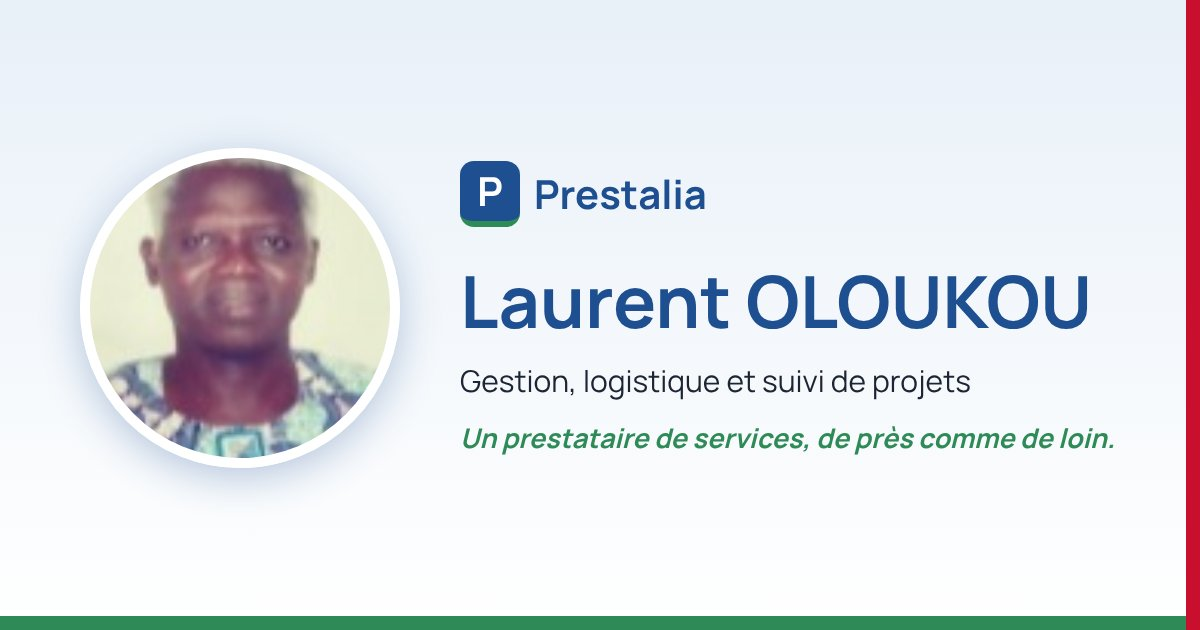
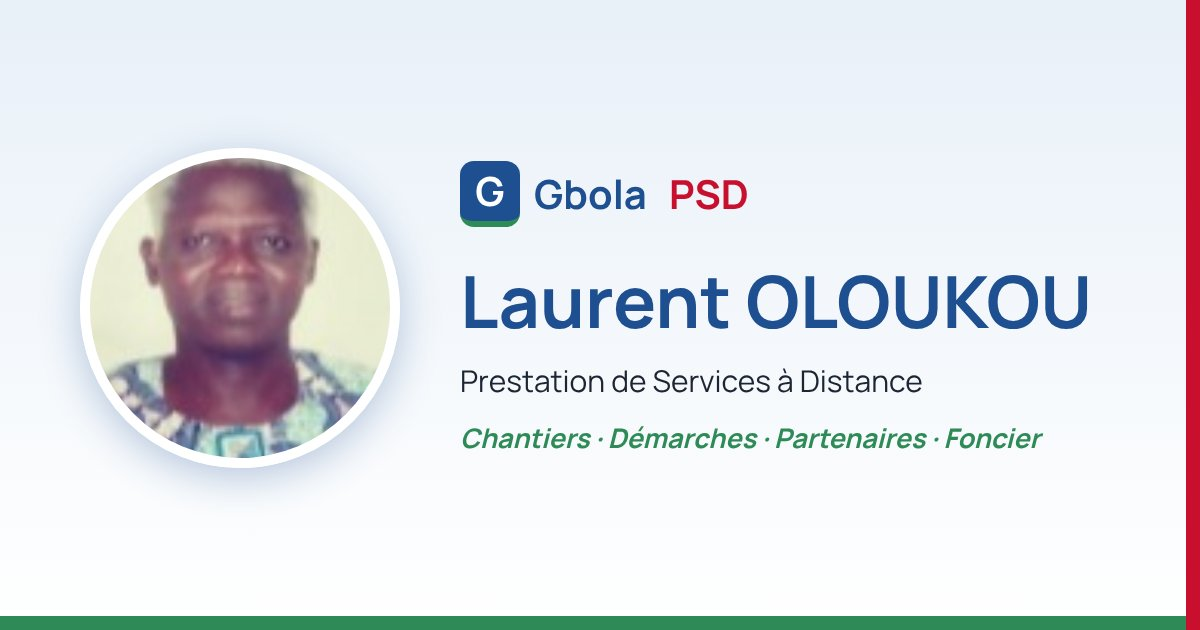
Gbola PSD (Prestation de Services à Distance) : nouvelle offre, services, public visé, étapes, engagements ; admin et CV mis à jour
Claude-Session: https://claude.ai/code/session_01VeEgxMetwQ83aSfKWoi2ZJ

Changed region(s): [[0.37, 0.6635, 0.925, 0.7238], [0.37, 0.573, 0.8017, 0.6333], [0.4008, 0.2714, 0.6475, 0.3317]]

diff --git a/index.html b/index.html
@@ -3,15 +3,15 @@
 <head>
   <meta charset="utf-8">
   <meta name="viewport" content="width=device-width, initial-scale=1">
-  <title>Prestalia — Laurent OLOUKOU, prestations de services</title>
-  <meta name="description" content="Prestalia : gestion de stocks, logistique, gestion administrative, suivi de projets et conseil. Laurent OLOUKOU, Lokossa, Bénin.">
+  <title>Gbola PSD — Prestation de Services à Distance | Laurent OLOUKOU</title>
+  <meta name="description" content="Gbola PSD : suivi de chantier, courses administratives, recherche de partenaires d'affaires et sécurisation foncière au Bénin, pour ceux qui manquent de temps ou vivent à l'extérieur. Laurent OLOUKOU, Lokossa.">
   <link rel="canonical" href="https://oloukou-laurent-prestation.vercel.app/">
   <meta name="theme-color" content="#1d4f91">
   <meta property="og:type" content="website">
   <meta property="og:locale" content="fr_FR">
-  <meta property="og:site_name" content="Prestalia">
-  <meta property="og:title" content="Prestalia — Laurent OLOUKOU, prestataire de services">
-  <meta property="og:description" content="Gestion de stocks, logistique, gestion administrative, suivi de projets et conseil. Un prestataire de services, de près comme de loin.">
+  <meta property="og:site_name" content="Gbola PSD">
+  <meta property="og:title" content="Gbola PSD — Prestation de Services à Distance">
+  <meta property="og:description" content="Suivi de chantier, courses administratives, partenaires d'affaires, sécurisation foncière. Confiance, honnêteté, discrétion et rapidité.">
   <meta property="og:url" content="https://oloukou-laurent-prestation.vercel.app/">
   <meta property="og:image" content="https://oloukou-laurent-prestation.vercel.app/assets/og-image.jpg">
   <meta property="og:image:width" content="1200">
@@ -30,10 +30,10 @@
   {
     "@context": "https://schema.org",
     "@type": "ProfessionalService",
-    "name": "Prestalia — Laurent OLOUKOU",
+    "name": "Gbola PSD — Prestation de Services à Distance",
     "url": "https://oloukou-laurent-prestation.vercel.app/",
     "image": "https://oloukou-laurent-prestation.vercel.app/assets/og-image.jpg",
-    "description": "Prestations de services : gestion de stocks et logistique, gestion administrative, conception et suivi-évaluation de projets, collecte de données, mobilisation de ressources, conseil en commerce.",
+    "description": "Prestation de services à distance : suivi de chantier, courses administratives, recherche de partenaires d'affaires, sécurisation foncière, logistique et suivi de projets.",
     "telephone": "+2290197900204",
     "email": "oloukoulau@gmail.com",
     "address": { "@type": "PostalAddress", "streetAddress": "Agnivèdji", "addressLocality": "Lokossa", "addressCountry": "BJ" },
@@ -54,8 +54,9 @@
   <a class="skip" href="#services">Aller au contenu</a>
   <header class="topbar">
     <div class="wrap topbar-in">
-      <a class="logo" href="#accueil"><span class="logo-mark">P<i></i></span>Prestalia</a>
+      <a class="logo" href="#accueil"><span class="logo-mark">G<i></i></span>Gbola <b class="logo-psd">PSD</b></a>
       <nav class="nav" aria-label="Navigation principale">
+        <a href="#psd">Gbola PSD</a>
         <a href="#services">Services</a>
         <a href="#apropos">À propos</a>
         <a href="#parcours">Parcours</a>
@@ -68,31 +69,31 @@
     <section id="accueil" class="hero">
       <div class="wrap hero-in">
         <div class="hero-text">
-          <p class="eyebrow">📍 Basé à Lokossa · 🚗 Se déplace pour vos missions</p>
+          <p class="eyebrow">🤝 Gbola PSD · Prestation de Services à Distance</p>
           <h1 data-f="name">Laurent OLOUKOU</h1>
           <p class="lead" data-f="title"></p>
           <p class="sub slogan" data-f="tagline"></p>
           <div class="actions">
-            <a href="#contact" class="btn btn-red">📩 Demander une prestation</a>
+            <a href="#contact" class="btn btn-red">📩 Confier une mission</a>
             <button type="button" class="btn btn-outline" data-cv>📄 Télécharger le CV</button>
           </div>
         </div>
         <div class="hero-visual" data-reveal="zoom">
           <div class="orbit-ring"></div>
           <ul class="orbit">
-            <li style="--a:0deg" title="Logistique"><span><svg viewBox="0 0 24 24" aria-hidden="true"><path d="M3 7h11v9H3zM14 10h4l3 3v3h-7z"/><circle cx="7" cy="17.5" r="1.8"/><circle cx="17.5" cy="17.5" r="1.8"/></svg><small>Logistique</small></span></li>
-            <li style="--a:60deg" title="Administration"><span><svg viewBox="0 0 24 24" aria-hidden="true"><path d="M4 4h10l4 4v12H4z"/><path d="M14 4v4h4M8 13l2 2 4-4"/></svg><small>Administration</small></span></li>
-            <li style="--a:120deg" title="Données"><span><svg viewBox="0 0 24 24" aria-hidden="true"><path d="M4 20h16M7 17v-4M12 17V9M17 17V6"/><path d="M5 11l5-4 3 2 6-5"/></svg><small>Données</small></span></li>
-            <li style="--a:180deg" title="Projets"><span><svg viewBox="0 0 24 24" aria-hidden="true"><rect x="3" y="7" width="18" height="12" rx="2"/><path d="M9 7V5h6v2M3 12h18"/></svg><small>Projets</small></span></li>
-            <li style="--a:240deg" title="Partenariats"><span><svg viewBox="0 0 24 24" aria-hidden="true"><circle cx="8" cy="8" r="3"/><circle cx="17" cy="9" r="2.5"/><path d="M2.5 19c.5-3.5 3-5 5.5-5s5 1.5 5.5 5M14 14.5c2.5-.5 6 .5 7 4"/></svg><small>Partenariats</small></span></li>
-            <li style="--a:300deg" title="Commerce"><span><svg viewBox="0 0 24 24" aria-hidden="true"><path d="M4 9l1.5-5h13L20 9M4 9h16v11H4zM4 9c0 1.7 1.3 3 3 3s3-1.3 3-3c0 1.7 1.3 3 3 3s3-1.3 3-3c0 1.7 1.3 3 3 3"/><path d="M10 20v-4h4v4"/></svg><small>Commerce</small></span></li>
+            <li style="--a:0deg" title="Chantier"><span><svg viewBox="0 0 24 24" aria-hidden="true"><path d="M4 15a8 8 0 0 1 16 0z"/><path d="M12 7v4M3 15h18v3H3z"/></svg><small>Chantier</small></span></li>
+            <li style="--a:60deg" title="Démarches"><span><svg viewBox="0 0 24 24" aria-hidden="true"><path d="M4 4h10l4 4v12H4z"/><path d="M14 4v4h4M8 13l2 2 4-4"/></svg><small>Démarches</small></span></li>
+            <li style="--a:120deg" title="Partenaires"><span><svg viewBox="0 0 24 24" aria-hidden="true"><circle cx="8" cy="8" r="3"/><circle cx="17" cy="9" r="2.5"/><path d="M2.5 19c.5-3.5 3-5 5.5-5s5 1.5 5.5 5M14 14.5c2.5-.5 6 .5 7 4"/></svg><small>Partenaires</small></span></li>
+            <li style="--a:180deg" title="Foncier"><span><svg viewBox="0 0 24 24" aria-hidden="true"><path d="M3 20l4-9h10l4 9z"/><path d="M12 3a3 3 0 0 1 3 3c0 2.5-3 5-3 5s-3-2.5-3-5a3 3 0 0 1 3-3z"/></svg><small>Foncier</small></span></li>
+            <li style="--a:240deg" title="Logistique"><span><svg viewBox="0 0 24 24" aria-hidden="true"><path d="M3 7h11v9H3zM14 10h4l3 3v3h-7z"/><circle cx="7" cy="17.5" r="1.8"/><circle cx="17.5" cy="17.5" r="1.8"/></svg><small>Logistique</small></span></li>
+            <li style="--a:300deg" title="Suivi"><span><svg viewBox="0 0 24 24" aria-hidden="true"><path d="M4 20h16M7 17v-4M12 17V9M17 17V6"/><path d="M5 11l5-4 3 2 6-5"/></svg><small>Suivi</small></span></li>
           </ul>
           <img class="hero-photo" data-photo src="assets/photo.jpg" alt="Photo de Laurent OLOUKOU" width="200" height="200">
           <div class="growth" aria-hidden="true">
             <svg viewBox="0 0 120 60"><path class="g-bar" d="M12 54V40"/><path class="g-bar" d="M32 54V32"/><path class="g-bar" d="M52 54V26"/><path class="g-bar" d="M72 54V18"/><path class="g-line" d="M8 44 30 34 50 30 72 16 104 6"/><path class="g-arrow" d="M94 5h11v10"/></svg>
             <span>Croissance</span>
           </div>
-          <div class="deal" aria-hidden="true"><svg viewBox="0 0 24 24" aria-hidden="true"><rect x="3" y="7" width="18" height="12" rx="2"/><path d="M9 7V5h6v2M3 12h18"/></svg><span>Prestation<br><b>réussie ✔</b></span></div>
+          <div class="deal" aria-hidden="true"><svg viewBox="0 0 24 24" aria-hidden="true"><rect x="3" y="7" width="18" height="12" rx="2"/><path d="M9 7V5h6v2M3 12h18"/></svg><span>Mission<br><b>suivie ✔</b></span></div>
         </div>
       </div>
     </section>
@@ -106,10 +107,30 @@
       </div>
     </section>
 
+    <section id="psd" class="section psd">
+      <div class="wrap">
+        <h2 class="h2" data-reveal><span class="emo" aria-hidden="true">🤝</span> Gbola PSD, c'est quoi ?</h2>
+        <p class="psd-offer" data-reveal data-f="offer"></p>
+
+        <h3 class="h3" data-reveal>👥 Pour qui ?</h3>
+        <div class="grid grid-3" id="audience"></div>
+
+        <h3 class="h3" data-reveal>⚙ Comment ça marche ?</h3>
+        <ol class="steps">
+          <li data-reveal style="--d:0ms"><b>1</b><strong>Vous expliquez votre besoin</strong><span>Par WhatsApp, téléphone, email ou le formulaire.</span></li>
+          <li data-reveal style="--d:120ms"><b>2</b><strong>Nous convenons des modalités</strong><span data-f="modalities"></span></li>
+          <li data-reveal style="--d:240ms"><b>3</b><strong>J'agis sur place, vous êtes informé</strong><span>Vous suivez l'avancement à distance, en toute sérénité.</span></li>
+        </ol>
+
+        <h3 class="h3" data-reveal>💎 Mes engagements</h3>
+        <div class="values" id="values"></div>
+      </div>
+    </section>
+
     <section id="services" class="section">
       <div class="wrap">
         <h2 class="h2" data-reveal><span class="emo" aria-hidden="true">🧰</span> Mes services</h2>
-        <p class="intro" data-reveal>✨ Plus de 30 ans d'expérience, mis à votre service sur place ou à distance.</p>
+        <p class="intro" data-reveal>✨ Liste non limitative : si votre besoin n'y figure pas, parlez-m'en.</p>
         <div class="grid" id="services-list"></div>
         <div class="travel" data-reveal>
           <svg viewBox="0 0 24 24" aria-hidden="true"><path d="M2 16l20-8-4 10-6-3-4 4v-6z"/><path d="M8 13l14-5"/></svg>
@@ -167,7 +188,7 @@
   </main>
 
   <footer class="footer">
-    <div class="wrap">© <span id="year"></span> Prestalia — <span data-f="name"></span> · Fait avec ❤ au Bénin 🇧🇯</div>
+    <div class="wrap">© <span id="year"></span> Gbola PSD — <span data-f="name"></span> · Fait avec ❤ au Bénin 🇧🇯</div>
   </footer>
 </body>
 </html>

diff --git a/js/content.js b/js/content.js
@@ -2,17 +2,32 @@
 // Il s'affiche tant que rien n'a été enregistré depuis la page d'administration.
 // Dès qu'il enregistre, c'est la version stockée dans Firebase qui est utilisée.
 
-export const BRAND = 'Prestalia';
+export const BRAND = 'Gbola PSD';
 
 export const DEFAULT_CONTENT = {
   name: 'Laurent OLOUKOU',
-  title: 'Prestataire de services en gestion, logistique et suivi de projets',
+  title: "Je m'occupe de vos affaires sur place, quand vous ne pouvez pas être là.",
   tagline: 'Un prestataire de services, de près comme de loin.',
   about:
     "De nationalité béninoise et originaire de Savè, j'ai travaillé de 1994 à 2018 avec le PAM " +
     "(Programme Alimentaire Mondial) à Lokossa et à Cotonou : gestion de stocks, logistique, " +
     "coordination de projets, suivi-évaluation, statistiques et mobilisation de ressources. " +
-    "Aujourd'hui, je mets cette expérience à votre service à travers Prestalia.",
+    "Aujourd'hui, je mets cette expérience et mon réseau à votre service à travers Gbola PSD.",
+  offer:
+    "Vous manquez de temps ou vous vivez loin ? Gbola PSD (Prestation de Services à Distance) " +
+    "assure à votre place le suivi de vos réalisations et de vos démarches, et vous tient informé à chaque étape.",
+  audience: [
+    { title: 'Administratifs et personnes très occupées', text: "Votre emploi du temps ne vous laisse pas le temps de vous déplacer ni de suivre vos dossiers." },
+    { title: "Personnes vivant à l'extérieur", text: "Vous êtes hors du Bénin ou loin de Lokossa et vous avez besoin de quelqu'un de confiance sur place." },
+    { title: 'Entreprises et porteurs de projets', text: "Vous cherchez un relais local pour vos chantiers, vos démarches ou vos partenariats." }
+  ],
+  values: [
+    { title: 'Confiance', text: 'Vos affaires sont suivies comme si c\'étaient les miennes.' },
+    { title: 'Honnêteté', text: 'Des comptes rendus clairs et transparents, sans surprise.' },
+    { title: 'Discrétion', text: 'Vos informations et vos projets restent confidentiels.' },
+    { title: 'Rapidité', text: 'Des démarches menées sans perte de temps.' }
+  ],
+  modalities: 'Les modalités (tarif, délais, fréquence des comptes rendus) sont étudiées avec vous, selon chaque situation.',
   travel: 'Je me déplace pour réaliser mes prestations : partout au Bénin et au-delà, selon vos besoins.',
   birth: 'Né vers 1967 à Savè (Département des Collines)',
   address: 'Agnivèdji, Lokossa, Bénin',
@@ -20,12 +35,12 @@ export const DEFAULT_CONTENT = {
   email: 'oloukoulau@gmail.com',
   whatsapp: '2290197900204',
   services: [
-    { title: 'Gestion de stocks et logistique', text: "Réception, stockage, répartition et suivi des marchandises, des vivres et du matériel, du port jusqu'aux entrepôts." },
-    { title: 'Gestion administrative et du patrimoine', text: 'Gestion des biens meubles et immeubles, du matériel et des fournitures, inventaires et organisation administrative.' },
-    { title: 'Conception et suivi-évaluation de projets', text: "Montage de projets, suivi de l'exécution, mesure d'impact et rapports pour les structures et les associations." },
-    { title: 'Collecte et analyse de données', text: 'Enquêtes, collecte de données terrain, statistiques et exploitation des informations pour la décision.' },
-    { title: 'Mobilisation de ressources et partenariats', text: 'Recherche de partenaires, rédaction de dossiers de mobilisation de ressources, animation de partenariats.' },
-    { title: 'Conseil en commerce général', text: "Accompagnement des commerçants : organisation de la boutique, approvisionnement, gestion des stocks et de la caisse." }
+    { title: 'Suivi de chantier', text: "Visites régulières, contrôle de l'avancement et de la qualité des travaux, comptes rendus et photos pour le propriétaire." },
+    { title: 'Courses administratives', text: "Dépôt et retrait de dossiers, suivi des démarches auprès des administrations, mairies et services publics." },
+    { title: "Recherche de partenaires d'affaires", text: "Identification et mise en relation avec des partenaires, fournisseurs ou investisseurs fiables." },
+    { title: 'Sécurisation foncière', text: "Contribution à la sécurisation de terrains et de biens bâtis ou non bâtis : vérifications, démarches et suivi." },
+    { title: 'Gestion de stocks et logistique', text: "Réception, stockage, répartition et suivi des marchandises et du matériel." },
+    { title: 'Suivi et évaluation de projets', text: "Suivi de l'exécution de vos projets, mesure des résultats et rapports réguliers." }
   ],
   experiences: [
     { title: "Gestionnaire d'un établissement de commerce général", org: 'Ets GBOLA & Fils', place: 'Lokossa', period: "2012 – Aujourd'hui", tasks: [], cvOnly: true },

diff --git a/admin.html b/admin.html
@@ -4,7 +4,7 @@
   <meta charset="utf-8">
   <meta name="viewport" content="width=device-width, initial-scale=1">
   <meta name="robots" content="noindex">
-  <title>Administration — Prestalia</title>
+  <title>Administration — Gbola PSD</title>
   <link rel="icon" href="assets/favicon.svg" type="image/svg+xml">
   <link rel="preconnect" href="https://www.gstatic.com" crossorigin>
   <link rel="preconnect" href="https://firestore.googleapis.com" crossorigin>
@@ -15,7 +15,7 @@
 <body>
   <header class="topbar">
     <div class="wrap topbar-in">
-      <a class="logo" href="index.html"><span class="logo-mark">P<i></i></span>Prestalia · Admin</a>
+      <a class="logo" href="index.html"><span class="logo-mark">G<i></i></span>Gbola PSD · Admin</a>
       <div class="nav">
         <span id="who" class="muted"></span>
         <button id="logout" class="btn btn-outline btn-sm" hidden>Déconnexion</button>
@@ -37,6 +37,7 @@
       <p class="hint">👋 Bienvenue ! Choisissez un onglet, modifiez les textes, puis cliquez sur <b>💾 Enregistrer</b> en bas de l'écran. Les changements apparaissent aussitôt sur le site et dans le CV.</p>
       <nav class="tabs" role="tablist">
         <button data-tab="profil" class="active">👤 Profil & contact</button>
+        <button data-tab="psd">🤝 Gbola PSD</button>
         <button data-tab="services">🧰 Services</button>
         <button data-tab="parcours">🧭 Parcours</button>
         <button data-tab="atouts">🛠 Compétences & langues</button>
@@ -64,6 +65,19 @@
           <label>Téléphones (un par ligne)<textarea name="phones" rows="3"></textarea></label>
           <label>Email<input name="email" type="email"></label>
           <label>Numéro WhatsApp (avec indicatif, ex. 2290197900204)<input name="whatsapp"></label>
+        </section>
+
+        <section data-panel="psd" class="panel card" hidden>
+          <h2>🤝 Présentation de Gbola PSD</h2>
+          <p class="hint">💡 Ces textes s'affichent dans la section « Gbola PSD, c'est quoi ? » du site.</p>
+          <label>Présentation de l'offre<textarea name="offer" rows="4"></textarea></label>
+          <label>Modalités (étape 2 « Nous convenons des modalités »)<textarea name="modalities" rows="2"></textarea></label>
+          <h2>👥 Pour qui ?</h2>
+          <p class="hint">💡 Une ligne par type de client, au format « Titre — description ».</p>
+          <label>Clients visés<textarea name="audience" rows="5"></textarea></label>
+          <h2>💎 Engagements</h2>
+          <p class="hint">💡 Une ligne par engagement, au format « Titre — description ».</p>
+          <label>Engagements<textarea name="engagements" rows="5"></textarea></label>
         </section>
 
         <section data-panel="services" class="panel card" hidden>

diff --git a/js/main.js b/js/main.js
@@ -9,8 +9,8 @@ let c, photo, lastJson = '';
 
 // Emojis choisis d'après le texte (fonctionne aussi pour les services ajoutés depuis l'admin)
 const pick = (text, table, fallback) => (table.find(([re]) => re.test(text.toLowerCase())) || [, fallback])[1];
-const serviceEmoji = t => pick(t, [[/stock|logisti|transport/, '📦'], [/administ|patrimoine|bureau/, '🗂'], [/projet|suivi|évaluation/, '📊'],
-  [/donnée|statisti|enquête|analyse/, '📈'], [/ressource|partenari|financ/, '🤝'], [/commerce|vente|boutique/, '🛒'], [/formation|conseil/, '💡']], '✨');
+const serviceEmoji = t => pick(t, [[/chantier|construct|travaux/, '🏗'], [/fonci|terrain|parcelle/, '🏡'], [/course|démarche/, '🗂'],[/stock|logisti|transport/, '📦'], [/administ|patrimoine|bureau/, '🗂'], [/projet|suivi|évaluation/, '📊'],
+  [/donnée|statisti|enquête|analyse/, '📈'], [/ressource|partenai|partenari|financ/, '🤝'], [/commerce|vente|boutique/, '🛒'], [/formation|conseil/, '💡']], '✨');
 const interestEmoji = t => pick(t, [[/agricult/, '🌱'], [/commerce/, '🛒'], [/associa/, '🤝'], [/voyage/, '✈'], [/sport|foot/, '⚽'], [/lecture|livre/, '📚'], [/musique/, '🎵']], '⭐');
 const stars = level => {
   const l = String(level || '').toLowerCase();
@@ -42,6 +42,13 @@ function render(data) {
       <h3>${esc(s.title)}</h3>
       <p>${esc(s.text)}</p>
     </article>`).join('');
+
+  const valueEmoji = t => pick(t, [[/confiance/, '🤝'], [/honnête/, '⚖'], [/discr/, '🤫'], [/rapid/, '⚡']], '💎');
+  const audienceEmoji = t => pick(t, [[/administ|occup/, '💼'], [/extérieur|étranger|diaspora|loin/, '✈'], [/entreprise|projet|investis/, '🏢']], '👤');
+  $('#audience').innerHTML = (c.audience || []).map((a, i) => `
+    <article class="card who" data-reveal style="--d:${i * 120}ms"><span class="who-emo" aria-hidden="true">${audienceEmoji(a.title)}</span><h4>${esc(a.title)}</h4><p>${esc(a.text)}</p></article>`).join('');
+  $('#values').innerHTML = (c.values || []).map((a, i) => `
+    <div class="value" data-reveal style="--d:${i * 100}ms"><span aria-hidden="true">${valueEmoji(a.title)}</span><strong>${esc(a.title)}</strong><p>${esc(a.text)}</p></div>`).join('');
 
   $('#skills').innerHTML = c.skills.map(s => `<li>✔ ${esc(s)}</li>`).join('');
   $('#interests').innerHTML = c.interests.map(s => `<li>${interestEmoji(s)} ${esc(s)}</li>`).join('');

diff --git a/css/style.css b/css/style.css
@@ -240,3 +240,32 @@ main { overflow-x: clip; }
 .langs li span.stars, .stars { color: #e0a526; letter-spacing: 1px; font-size: .85em; }
 .langs li > span:last-child { white-space: nowrap; }
 .coords .ico { margin-right: 6px; }
+
+/* ================= Gbola PSD ================= */
+.logo-psd { color: var(--red); }
+.psd { background: linear-gradient(180deg, #fff, var(--blue-soft)); }
+.psd-offer { font-size: 1.2rem; max-width: 780px; border-left: 4px solid var(--red); padding-left: 16px; margin-bottom: 8px; }
+.h3 { color: var(--blue); font-size: 1.3rem; margin: 36px 0 16px; }
+.grid-3 { grid-template-columns: repeat(auto-fill, minmax(250px, 1fr)); }
+.who { text-align: center; transition: transform .25s, box-shadow .25s; }
+.who:hover { transform: translateY(-5px); box-shadow: 0 12px 26px rgba(29, 79, 145, .14); }
+.who-emo { font-size: 2.2rem; display: block; }
+.who h4 { margin: .4em 0; color: var(--blue); font-size: 1.05rem; }
+.who p { margin: 0; color: var(--muted); }
+.steps { list-style: none; padding: 0; margin: 0; display: grid; grid-template-columns: repeat(3, 1fr); gap: 20px; counter-reset: s; position: relative; }
+.steps li { position: relative; background: #fff; border: 1px solid var(--line); border-radius: var(--radius); padding: 22px 20px 20px 72px; }
+.steps b { position: absolute; left: 18px; top: 20px; width: 40px; height: 40px; border-radius: 50%; display: grid; place-items: center; background: var(--blue); color: #fff; font-size: 1.1rem; }
+.steps li:nth-child(2) b { background: var(--green); }
+.steps li:nth-child(3) b { background: var(--red); }
+.steps strong { display: block; margin-bottom: 4px; }
+.steps span { color: var(--muted); font-size: .95rem; }
+.values { display: grid; grid-template-columns: repeat(4, 1fr); gap: 16px; }
+.value { background: var(--blue); color: #fff; border-radius: var(--radius); padding: 22px 18px; text-align: center; transition: transform .25s; }
+.value:nth-child(2) { background: var(--green); }
+.value:nth-child(3) { background: #2b3a55; }
+.value:nth-child(4) { background: var(--red); }
+.value:hover { transform: translateY(-5px) rotate(-1deg); }
+.value span { font-size: 2rem; display: block; }
+.value strong { font-size: 1.15rem; display: block; margin: .3em 0; }
+.value p { margin: 0; font-size: .92rem; opacity: .95; }
+@media (max-width: 900px) { .values { grid-template-columns: 1fr 1fr; } .steps { grid-template-columns: 1fr; } }

diff --git a/js/admin.js b/js/admin.js
@@ -79,8 +79,10 @@ const lines = v => v.split('\n').map(s => s.trim()).filter(Boolean);
 
 /* ---------- Remplir / lire le formulaire ---------- */
 function fill(c) {
-  for (const k of ['name', 'title', 'tagline', 'travel', 'birth', 'about', 'address', 'email', 'whatsapp']) form.elements[k].value = c[k] || '';
+  for (const k of ['name', 'title', 'tagline', 'travel', 'birth', 'about', 'address', 'email', 'whatsapp', 'offer', 'modalities']) form.elements[k].value = c[k] || '';
   form.elements.phones.value = c.phones.join('\n');
+  form.elements.audience.value = (c.audience || []).map(a => `${a.title} — ${a.text}`).join('\n');
+  form.elements.engagements.value = (c.values || []).map(a => `${a.title} — ${a.text}`).join('\n');
   form.elements.skills.value = c.skills.join('\n');
   form.elements.interests.value = c.interests.join('\n');
   form.elements.languages.value = c.languages.map(l => `${l.name} — ${l.level}`).join('\n');
@@ -88,6 +90,12 @@ function fill(c) {
   renderList('experiences', c.experiences);
   $('#photo-preview').src = photo;
 }
+
+// « Titre — description » → { title, text }
+const pairs = txt => lines(txt).map(l => {
+  const [title, ...rest] = l.split(/\s+[—–-]\s+/);
+  return { title: title.trim(), text: rest.join(' — ').trim() };
+});
 
 function read() {
   const v = k => form.elements[k].value.trim();
@@ -101,6 +109,9 @@ function read() {
       const [name, ...rest] = l.split(/\s+[—–-]\s+/);
       return { name: name.trim(), level: rest.join(' — ').trim() };
     }),
+    offer: v('offer'), modalities: v('modalities'),
+    audience: pairs(v('audience')),
+    values: pairs(v('engagements')),
     services: readList('services'),
     experiences: readList('experiences')
   };

diff --git a/js/cv.js b/js/cv.js
@@ -91,6 +91,7 @@ function definition(c, photo) {
   const main = [
     { text: c.name, fontSize: 24, bold: true, color: NAVY, characterSpacing: .3 },
     { canvas: [{ type: 'rect', x: 0, y: 0, w: 60, h: 4, r: 2, color: AMBER }], margin: [0, 6, 0, 6] },
+    { text: 'Fondateur de Gbola PSD — Prestation de Services à Distance', bold: true, color: NAVY, fontSize: 10.5, margin: [0, 0, 0, 3] },
     c.birth ? { text: [...emo('🎂', MUTED), c.birth], color: MUTED, fontSize: 9.5 } : '',
     ...(c.about ? [mainTitle('👤', 'Profil'), { text: c.about, fontSize: 9.5, lineHeight: 1.3, alignment: 'justify' }] : []),
     ...(c.experiences?.length ? [mainTitle('💼', 'Expérience professionnelle'),

diff --git a/README.md b/README.md
@@ -1,4 +1,4 @@
-# Prestalia — site de Laurent OLOUKOU
+# Gbola PSD — site de Laurent OLOUKOU
 
 Site vitrine pour promouvoir les prestations de services de Laurent OLOUKOU
 (gestion de stocks, logistique, gestion administrative, suivi de projets, conseil).
